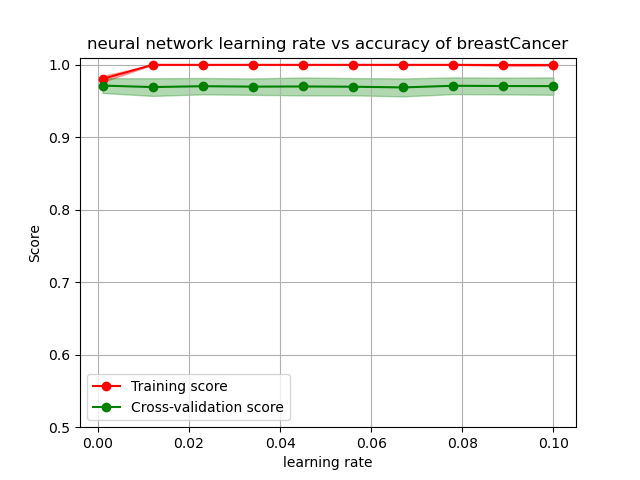
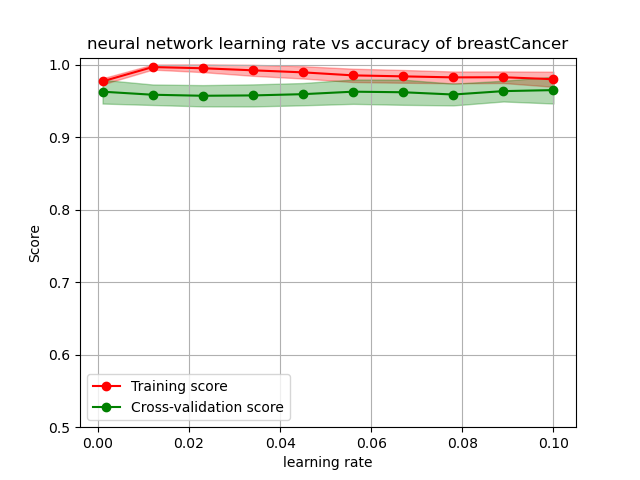
assignment 1 for ML

Changed region(s): [[0.1562, 0.125, 0.875, 0.25]]

diff --git a/assignment1/NN.py b/assignment1/NN.py
@@ -34,11 +34,10 @@ def nn_learning_rate(trainX, trainy, title):
 
     plot_tuning_curve(train_scores, test_scores, learning_rates, "learning rate","neural network learning rate vs accuracy of "+title)   
 
-
-def run_loss_curve(clf, trainX, trainy, title):    
-    clf.fit(trainX, trainy)
-
-    plt.plot(clf.loss_curve_, label = 'loss')
+def plot_loss_curve(data1, data2, title1, title2, title):
+    plt.plot(data1, label = title1)
+    
+    plt.plot(data2, label = title2)
     plt.xlabel('Iteration')
     plt.ylabel('Loss')
     plt.title("Loss curve for neural network "+title)
@@ -46,6 +45,21 @@ def run_loss_curve(clf, trainX, trainy, title):
     plt.savefig('images/'+title+" Loss curve for neural network")
     plt.clf()
 
+# def run_loss_curve(clf, trainX, trainy, testX, testy, title):    
+#     clf.fit(trainX, trainy)
+
+#     plt.plot(clf.loss_curve_, label = 'training loss')
+#     clf.fit(testX, testy)
+#     plt.plot(clf.loss_curve_, label = 'test loss')
+#     plt.xlabel('Iteration')
+#     plt.ylabel('Loss')
+#     plt.title("Loss curve for neural network "+title)
+#     plt.legend(loc='best')
+#     plt.savefig('images/'+title+" Loss curve for neural network")
+#     plt.clf()
+def run_loss_curve(clf, trainX, trainy):    
+    clf.fit(trainX, trainy)
+    return clf.loss_curve_
 
 def breastCancerNN():
     breastCancer_training_X, breastCancer_training_y, breastCancer_test_X,  breastCancer_test_y = load_breastCancer()
@@ -53,12 +67,16 @@ def breastCancerNN():
     hidden_layers(breastCancer_training_X, breastCancer_training_y, 'breastCancer')
     nn_learning_rate(breastCancer_training_X, breastCancer_training_y, 'breastCancer')
     
-    clf = MLPClassifier(hidden_layer_sizes=3, learning_rate_init=0.02)
+    clf = MLPClassifier(hidden_layer_sizes=3, learning_rate_init=0.01)
 
     after_tuned_evaluation(clf, breastCancer_training_X, breastCancer_training_y, breastCancer_test_X, breastCancer_test_y, "breast cancer NN ")
     
     plot_learning_curve(clf, breastCancer_training_X, breastCancer_training_y, title="breast cancer learning curve neural network")
-    run_loss_curve(clf, breastCancer_training_X, breastCancer_training_y, "breast cancer loss curve")
+    # run_loss_curve(clf, breastCancer_training_X, breastCancer_training_y, breastCancer_test_X, breastCancer_test_y, "breast cancer loss curve")
+    
+    training_loss = run_loss_curve(clf, breastCancer_training_X, breastCancer_training_y)
+    test_loss = run_loss_curve(clf, breastCancer_test_X, breastCancer_test_y)
+    plot_loss_curve(training_loss, test_loss, "training loss", "test loss", "breast Cancer")
 
 
 def winequalityNN():
@@ -74,12 +92,16 @@ def winequalityNN():
     after_tuned_evaluation(clf, winequality_training_X, winequality_training_y, winequality_test_X, winequality_test_y, "wine quality NN ")
     
     plot_learning_curve(clf, winequality_training_X, winequality_training_y, title="winequality learning curve neural network")
-    run_loss_curve(clf, winequality_training_X, winequality_training_y, "winequality loss curve")
+    # run_loss_curve(clf, winequality_training_X, winequality_training_y, "winequality loss curve")
+    training_loss = run_loss_curve(clf, winequality_training_X, winequality_training_y)
+    test_loss = run_loss_curve(clf, winequality_test_X, winequality_test_y)
+    plot_loss_curve(training_loss, test_loss, "training loss", "test loss", "wine quality")
 
-# if __name__ == "__main__":
-#     if not os.path.exists('images'):
-#         os.makedirs('images')
 
-#     breastCancerNN()
-    # winequalityNN()
+if __name__ == "__main__":
+    if not os.path.exists('images'):
+        os.makedirs('images')
+
+    # breastCancerNN()
+    winequalityNN()
     

diff --git a/assignment1/DT.py b/assignment1/DT.py
@@ -44,12 +44,12 @@ def tree_alpha(trainX, trainy, title):
 
 
 def complexity_alpha(trainX, trainy, testX, testy, title):
-    clf = DecisionTreeClassifier(random_state=0)
+    clf = DecisionTreeClassifier()
     path = clf.cost_complexity_pruning_path(trainX, trainy)
-    ccp_alphas, impurities = path.ccp_alphas, path.impurities
+    ccp_alphas = path.ccp_alphas
     clfs = []
     for ccp_alpha in ccp_alphas:
-        clf = DecisionTreeClassifier(random_state=0, ccp_alpha=ccp_alpha)
+        clf = DecisionTreeClassifier(ccp_alpha=ccp_alpha)
         clf.fit(trainX, trainy)
         clfs.append(clf)
 
@@ -60,6 +60,7 @@ def complexity_alpha(trainX, trainy, testX, testy, title):
     
 
     fig, ax = plt.subplots()
+    # plt.xlim(0.0, 0.003)
     ax.set_xlabel("alpha")
     ax.set_ylabel("accuracy")
     ax.set_title("decision tree tune alpha " +title)
@@ -86,7 +87,7 @@ def breastCancerDT():
         breastCancer_test_X, breastCancer_test_y, 'breastCancer')
 
     clf = DecisionTreeClassifier(
-        max_depth=None, min_samples_leaf=1, ccp_alpha=0.001)
+        max_depth=None, min_samples_leaf=1, ccp_alpha=0.004)
 
     after_tuned_evaluation(clf, breastCancer_training_X, breastCancer_training_y, breastCancer_test_X, breastCancer_test_y, "breast cancer DT ")
     plot_learning_curve(clf, breastCancer_training_X, breastCancer_training_y,
@@ -103,16 +104,16 @@ def winequalityDT():
     complexity_alpha(winequality_training_X, winequality_training_y, winequality_test_X, winequality_test_y, "winequality")
 
     clf = DecisionTreeClassifier(
-        max_depth=None, min_samples_leaf=1, ccp_alpha=0.001)
+        max_depth=20, min_samples_leaf=1, ccp_alpha=0.000)
 
     after_tuned_evaluation(clf, winequality_training_X, winequality_training_y, winequality_test_X, winequality_test_y, "wine quality DT ")
     plot_learning_curve(clf, winequality_training_X, winequality_training_y,
                     title="wine quality learning curve decision tree")
 
 
-# if __name__ == "__main__":
-#     if not os.path.exists('images'):
-#         os.makedirs('images')
+if __name__ == "__main__":
+    if not os.path.exists('images'):
+        os.makedirs('images')
 
-#     breastCancerDT()
-    # winequalityDT()
+    # breastCancerDT()
+    winequalityDT()

diff --git a/assignment1/util.py b/assignment1/util.py
@@ -100,6 +100,7 @@ def after_tuned_evaluation(clf,trainX, trainy, testX, testy, title):
 
 
 def load_winequality():
+    np.random.seed(2636456)
 
     winequality = pd.read_csv('winequality.csv', sep=',')
 
@@ -120,6 +121,7 @@ def load_winequality():
 
 
 def load_breastCancer():
+    np.random.seed(2636456)
 
     breastCancer = pd.read_csv('breastCancer.csv', sep=',')
     # breastCancer = breastCancer.to_numpy()
@@ -127,14 +129,18 @@ def load_breastCancer():
     X = breastCancer.values[:, 0:-1]
     y = breastCancer.values[:, -1]
 
-    ros = RandomOverSampler(random_state=42)
-    X_res, y_res=ros.fit_resample(X, y)
+    # ros = RandomOverSampler(random_state=42)
+    # X_res, y_res=ros.fit_resample(X, y)
+
+    # breastCancer_training_X, breastCancer_test_X, breastCancer_training_y, breastCancer_test_y = train_test_split(
+    #     X_res, y_res, random_state=42, test_size=0.25)
 
     breastCancer_training_X, breastCancer_test_X, breastCancer_training_y, breastCancer_test_y = train_test_split(
-        X_res, y_res, random_state=42, test_size=0.25)
+        X, y, random_state=42, test_size=0.25)
 
-    scaler = preprocessing.StandardScaler()
-    scaler_breastCancer_training_x = scaler.fit_transform(breastCancer_training_X)
-    scaler_breastCancer_test_x = scaler.fit_transform(breastCancer_test_X)
+    # scaler = preprocessing.StandardScaler()
+    # scaler_breastCancer_training_x = scaler.fit_transform(breastCancer_training_X)
+    # scaler_breastCancer_test_x = scaler.fit_transform(breastCancer_test_X)
 
-    return scaler_breastCancer_training_x, breastCancer_training_y, scaler_breastCancer_test_x, breastCancer_test_y
+    # return scaler_breastCancer_training_x, breastCancer_training_y, scaler_breastCancer_test_x, breastCancer_test_y
+    return breastCancer_training_X, breastCancer_training_y, breastCancer_test_X, breastCancer_test_y

diff --git a/assignment1/Boosting.py b/assignment1/Boosting.py
@@ -59,9 +59,9 @@ def winequalityboost():
     plot_learning_curve(clf, winequality_training_X, winequality_training_y, title="winequality learning curve boost")
 
 
-# if __name__ == "__main__":
-#     if not os.path.exists('images'):
-#         os.makedirs('images')
+if __name__ == "__main__":
+    if not os.path.exists('images'):
+        os.makedirs('images')
 
-#     breastCancerboost()
-#     winequalityboost()
+    breastCancerboost()
+    winequalityboost()
